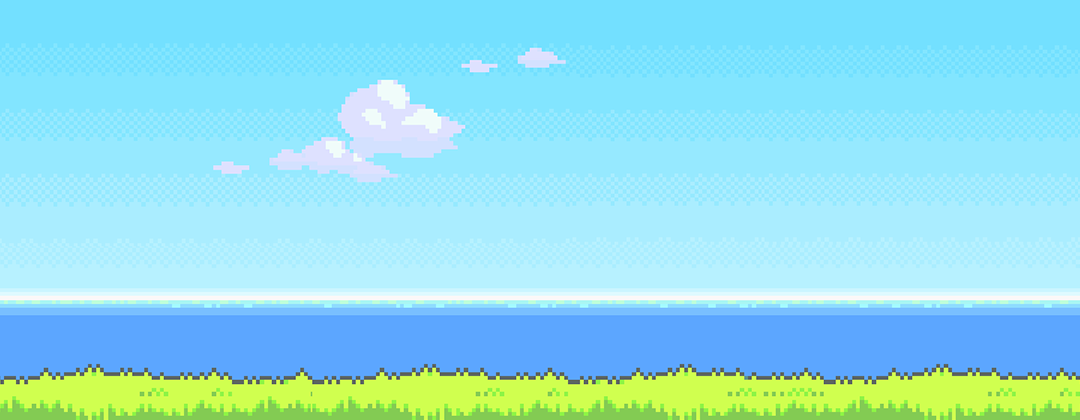
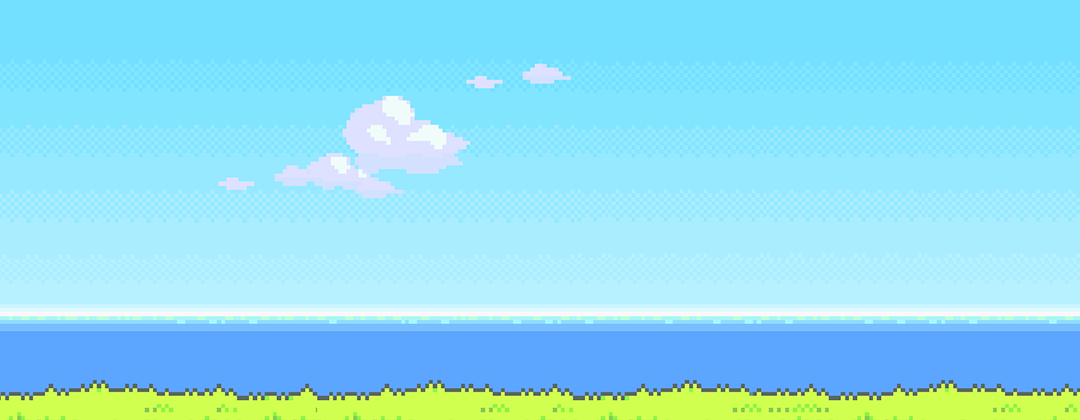
Movimiento de piso

diff --git a/Proyecto Videojuego/Modelo/Pantalla.py b/Proyecto Videojuego/Modelo/Pantalla.py
@@ -3,7 +3,7 @@ from modelo.Enemigo import Enemigo
 import pygame
 
 class Pantalla(object):
-    def __init__(self,nombre,display,imagen,x,y,resolucion):
+    def __init__(self,nombre,display,imagen,x,y,resolucion,piso = None):
         self.nombre=pygame.display.set_caption(nombre)
         self.display=display
         self.resolucion=resolucion
@@ -11,6 +11,13 @@ class Pantalla(object):
         self.fondo=pygame.image.load(imagen)                                    #Carga solo 1 imagen
         self.x=[x,x+resolucion]
         self.y=y
+        self.dir_piso=piso                                                      #Atributos del piso
+        if piso != None:
+            self.piso=pygame.image.load(self.dir_piso)
+            self.x_piso=[x,x+resolucion]
+            self.x_init=[x,x+resolucion]
+            self.y_piso=362
+            self.t=1
 
     #Setters
     def setNombre(self, nombre):
@@ -29,9 +36,14 @@ class Pantalla(object):
             self.y=y
     #toPantalla()
     def toPantalla(self):  #tipo el toString()
-         self.display.blit(self.fondo,[self.x[0], self.y]) #imprime en pantalla los 2 fondos
-         fondoCopy=self.fondo.copy()                        #Copia el fondo a otra superficie
+         fondoCopy=self.fondo.copy()                        #imprime en pantalla los 2 fondos
+         self.display.blit(self.fondo,[self.x[0], self.y])  #Copia el fondo a otra superficie
          self.display.blit(fondoCopy,[self.x[1],self.y])    #y imprime el fondo con las coordenadas correspondientes
+         if self.dir_piso != None:
+            pisoCopy=self.piso.copy()
+            self.display.blit(self.piso,[self.x_piso[0],self.y_piso])
+            self.display.blit(pisoCopy,[self.x_piso[1],self.y_piso])
+
 
 
     #metodos
@@ -43,6 +55,17 @@ class Pantalla(object):
         else:
             self.x[pos]=self.x[pos]-2 #es 2
             self.y=0
+
+    def moverPiso(self,pos):                        #Nuevo metodo para mover el piso
+        if self.x_piso[pos]<=-self.resolucion:
+            self.x_piso[pos]=self.resolucion
+            self.x_init[pos]=self.resolucion
+            if pos == 0:
+                self.x_init[1]=0
+            else:
+                self.x_init[0]=0
+        else:
+            self.x_piso[pos]=self.x_piso[pos] - 16
 
 
     def detenerPantalla(self):

diff --git a/Proyecto Videojuego/Modelo/Menu.py b/Proyecto Videojuego/Modelo/Menu.py
@@ -9,7 +9,7 @@ class Menu(object):
       if not self._instance:
          self._instance=super(Menu,self).__new__(self)
          self.pantalla=[Pantalla("Jump the Rock: Menu Principal",pygame.display.set_mode((1080,420)),'fondo.jpg',0,0,1080),
-                        Pantalla("Jump the Rock",pygame.display.set_mode((1080,420)),'fondo6.png',0,0,1080),
+                        Pantalla("Jump the Rock",pygame.display.set_mode((1080,420)),'fondo6.png',0,0,1080,'piso.png'),
                         Pantalla("Game Over",pygame.display.set_mode((1080,420)),'gameover.png',0,0,1080),
                         Pantalla("Puntajes",pygame.display.set_mode((1080,420)),'pinkfloyd.png',0,0,1080),
                         Pantalla("Como Jugar",pygame.display.set_mode((1080,420)),'intruc.jpg',0,0,1080)]

diff --git a/Proyecto Videojuego/Modelo/Enemigo.py b/Proyecto Videojuego/Modelo/Enemigo.py
@@ -21,11 +21,11 @@ class Enemigo(Personaje):                                           #Esta es la 
 
 
         def desplazarIzquierda(self):
-            if self.x<-16:
+            if self.x<-86:
                 self.x=1000
                 self.y=320
             else:
-               self.x=self.x-10
+               self.x=self.x-15
                self.y=320
 
         def desplazarIzquierdaRapido(self):

diff --git a/Proyecto Videojuego/Modelo/Juego.py b/Proyecto Videojuego/Modelo/Juego.py
@@ -71,6 +71,8 @@ class Juego(object):
 
                 self.pantalla.moverPantalla(0)
                 self.pantalla.moverPantalla(1)
+                self.pantalla.moverPiso(0)
+                self.pantalla.moverPiso(1)
                 self.enemigo.desplazarIzquierda2(tiempoEnemigo)
                 tiempoEnemigo=self.enemigo.desplazarIzquierda2(tiempoEnemigo)
 
